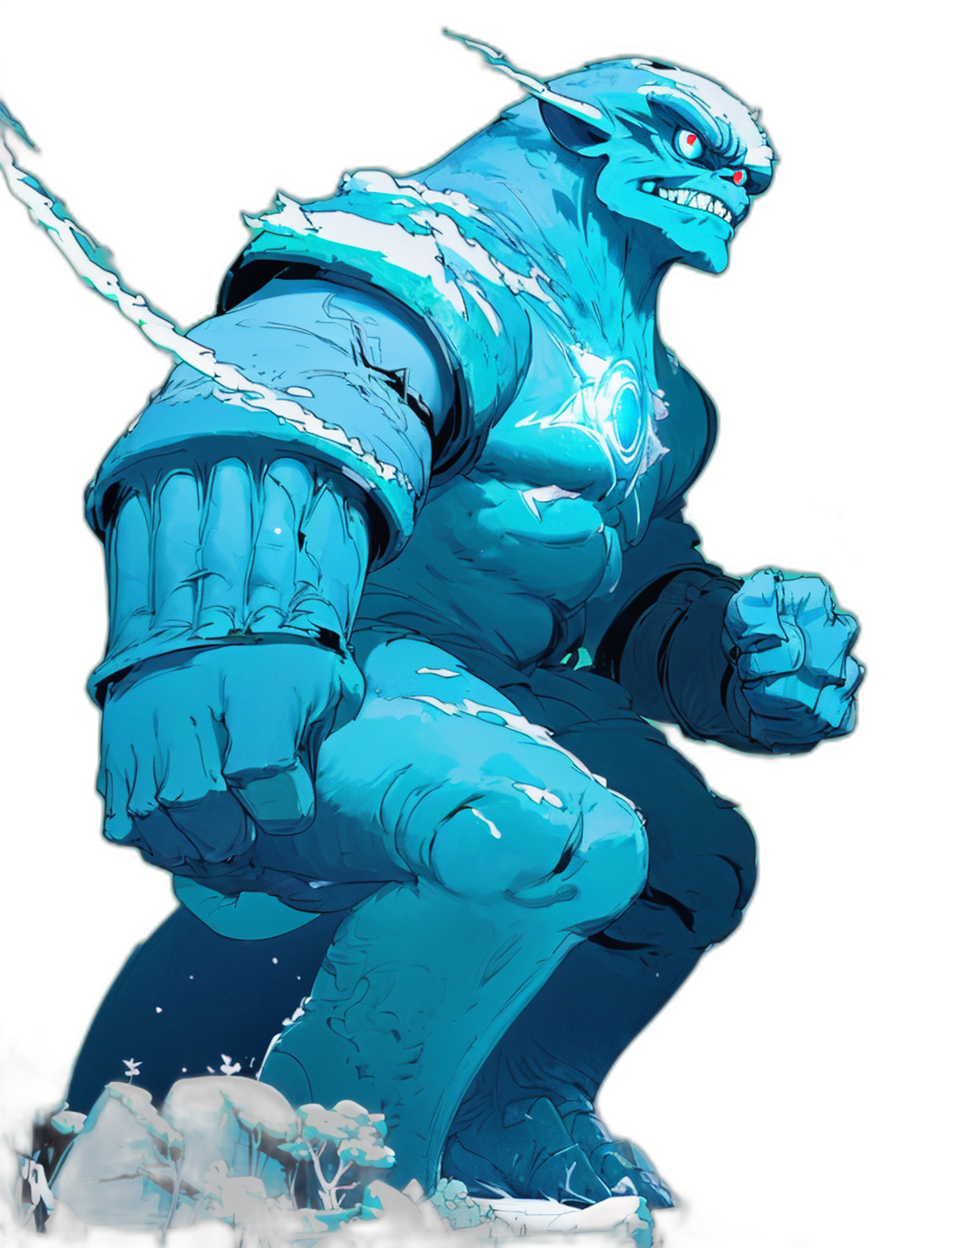
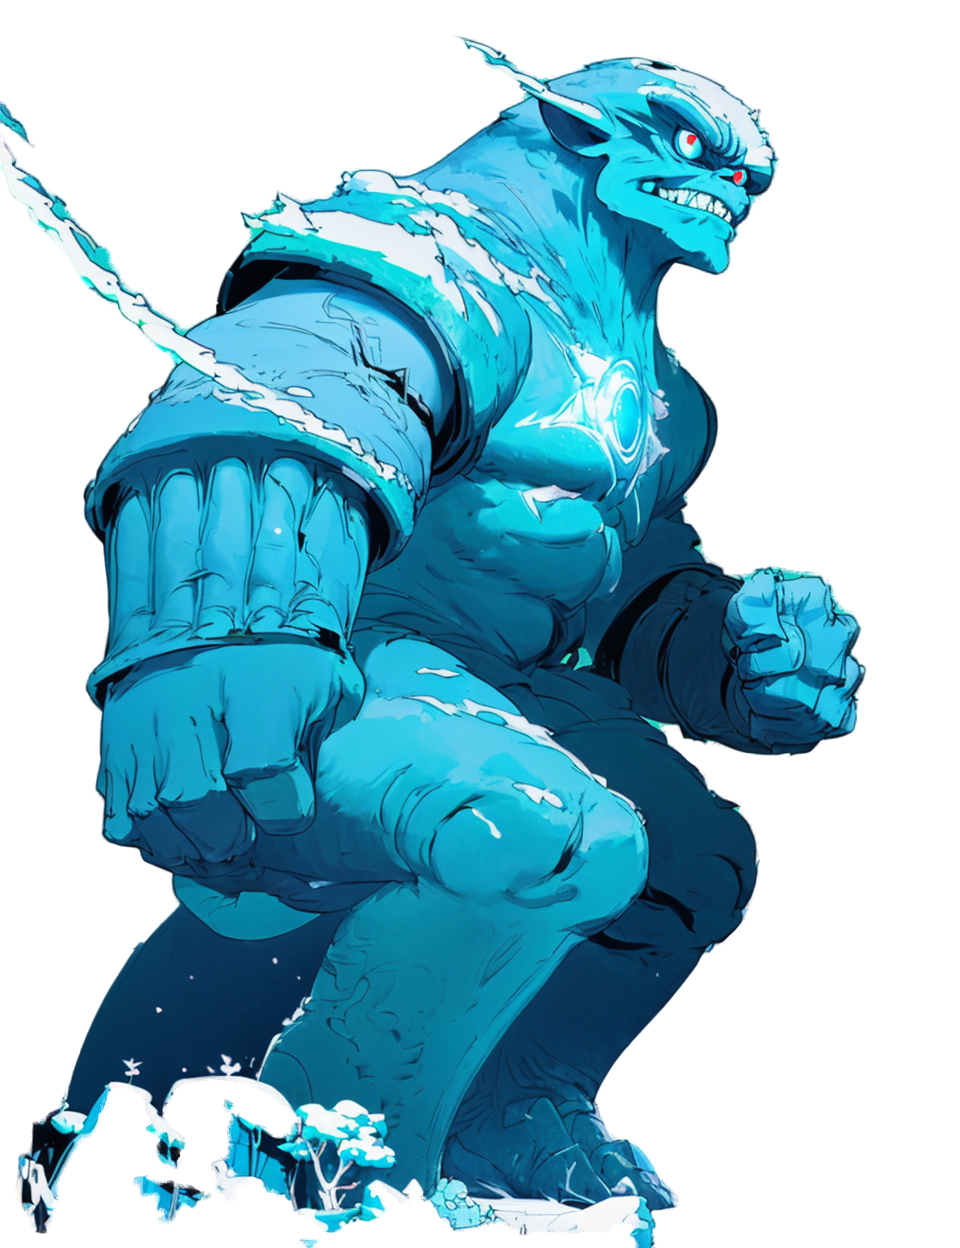
monsters-002: retry chroma-key (magenta/orange), revert to improved rembg matting
Tried 3 more chroma-key attempts per user request, each specifying a
background color absent from the frost golems own palette:
  - magenta, light mention -> ignored, background stayed icy blue/cyan
  - magenta, emphasized + front-loaded -> background changed but bled
    into the characters skin/highlights
  - orange (complementary to the icy palette) -> background came out
    as clean flat color, but the character composition itself
    collapsed into an unrelated, off-brief design

Chroma-key is not viable for this checkpoint/prompt combination given
the creatures cool color palette; reverting to rembg per user
direction to instead fix rembgs edge quality.

Diagnosed the original rembg complaint ("not cleanly extracted"):
plain rembg.remove() left large soft/uncertain alpha regions around
fine details (ice-splash droplets) that appear as a grey ghost smear
once composited onto a real background. Added tools/matte_transparent.py
using alpha_matting + post_process_mask together, which was the only
combination in a 5-way comparison that fixed the soft-ghosting AND
kept smooth antialiased edges (post_process_mask alone fixes ghosting
but produces jagged binary edges; alpha_matting alone keeps smooth
edges but does not fix the ghosting).

Reprocessed all monsters-002 transparent variants with the new tool
and updated the gallery page notes + failed-attempts section
accordingly.

diff --git a/web/preview/monsters-002/index.html b/web/preview/monsters-002/index.html
@@ -41,6 +41,8 @@ h2 { color: var(--gold); font-size: 16px; letter-spacing: 0.04em; text-transform
 .failed { border-color: #6a4030; opacity: 0.6; }
 .failed .card-img { filter: grayscale(0.4); }
 .section-muted { opacity: 0.9; }
+.badge-fixed { display: inline-block; background: #24422c; color: #8fe8a8; border: 1px solid #3a6a48;
+  border-radius: 4px; padding: 1px 8px; font-size: 11px; letter-spacing: 0.03em; margin-left: 6px; }
 
 .i18n span[lang="en"] { display: none; }
 .i18n span[lang="ja"] { display: inline; }
@@ -103,14 +105,14 @@ body.lang-en .i18n span[lang="ja"] { display: none; }
   <div class="card-title-ja">SDXLベース・高精細</div>
   <div class="card-title-en">SDXL base, high-detail</div>
   <div class="card-tech">sd_xl_base_1.0</div>
-  <div class="card-note"><span class="i18n"><span lang="ja">このGPU(8GB)ではSDXL単体ロード時にVRAM不足でハング(進捗停止)し、interruptで中断。今回のシンプル方針では見送り。将来別途調査の価値あり。</span><span lang="en">On this 8GB GPU, loading SDXL alone caused a VRAM-pressure hang (progress stalled indefinitely); interrupted manually. Dropped for now given the "simple, reliable" mandate — worth investigating separately later.</span></span></div>
+  <div class="card-note"><span class="i18n"><span lang="ja">このGPU(8GB)ではSDXL単体ロード時にVRAM不足でハング(進捗停止)し、interruptで中断。今回のシンプル方針では見送り。将来別途調査の価値あり。</span><span lang="en">On this 8GB GPU, loading SDXL alone caused a VRAM-pressure hang (progress stalled indefinitely); interrupted manually. Dropped for now given the simple, reliable mandate — worth investigating separately later.</span></span></div>
 </div>
 </div>
 
 <h2><span class="i18n"><span lang="ja">#2方向の追加バリエーション(透過背景)</span><span lang="en">#2 Direction — More Variations (transparent background)</span></span></h2>
 <div class="meta"><span class="i18n">
-<span lang="ja">背景はU2Net(rembg)による自動セグメンテーションで透過化(緑/シアン背景のカラーキー方式は、氷モンスター自体が寒色系でキー色と衝突し破綻したため不採用)。カードの市松模様は透過部分の目安です。</span>
-<span lang="en">Backgrounds removed via U2Net (rembg) automatic segmentation (a color-key/chroma-key approach was tried first but broke down since the icy creature's own cool palette collides with green/cyan key colors). The checkered pattern on each card marks the transparent area.</span>
+<span lang="ja">背景はU2Net(rembg)による自動セグメンテーションで透過化。カラーキー方式はマゼンタ/オレンジで背景色を変えて再テストしたが、「指定色が無視され元の背景に戻る」「指定色がキャラクター本体の肌に滲む」「構図自体が崩壊する」とテストごとに異なる形で破綻し、この氷モンスターの寒色パレットとは相性が悪いため不採用。rembg側も当初、氷の飛沫のような細かい部分の縁が半透明の「ゴースト」状に残り抜けが甘かったため、alpha matting + マスク後処理を追加し縁を再処理済み(下記カード参照)。カードの市松模様は透過部分の目安です。</span>
+<span lang="en">Backgrounds removed via U2Net (rembg) automatic segmentation. Chroma-key was re-tested with two more background colors (magenta, orange) but broke down in a different way each time — the color was ignored and the old background came back, the color bled into the character's own skin, or the composition collapsed entirely — a poor match for this creature's cool color palette. On the rembg side, the first pass also left soft, semi-transparent ghost edges around fine details like ice-splash droplets; edges have now been reprocessed with alpha matting + mask post-processing (see cards below). The checkered pattern marks the transparent area.</span>
 </span></div>
 <div class="gallery">
 
@@ -150,8 +152,8 @@ body.lang-en .i18n span[lang="ja"] { display: none; }
 
 <h2 class="section-muted"><span class="i18n"><span lang="ja">失敗した試行(参考)</span><span lang="en">Failed Attempts (for reference)</span></span></h2>
 <div class="meta"><span class="i18n">
-<span lang="ja">同バッチで2件、ブリーフ(全身・正面)を満たさず除外: 肩に氷の棘を足した版はフレームアウトしてほぼ写らず、氷の冠を足した版は上半身のみのポートレートになった。</span>
-<span lang="en">Two more attempts in the same batch didn't meet the brief (full body, front-facing) and were excluded: the shoulder-spikes variant framed almost entirely out of shot, and the ice-crown variant came out as a bust/portrait instead of full body.</span>
+<span lang="ja">同バッチで2件、ブリーフ(全身・正面)を満たさず除外: 肩に氷の棘を足した版はフレームアウトしてほぼ写らず、氷の冠を足した版は上半身のみのポートレートになった。<br/>また透過方式としてカラーキー(クロマキー)を3パターン試して除外: (1)背景色を軽く指定 → 無視されて元の氷背景のまま、(2)背景色を強調して前方配置 → 背景色は変わったがキャラクターの肌・ハイライトに色が滲んだ、(3)氷色の補色(オレンジ)を選択 → 背景は綺麗な単色になったがキャラクターの構図自体が別物に崩れた。</span>
+<span lang="en">Two more attempts in the same batch didn't meet the brief (full body, front-facing) and were excluded: the shoulder-spikes variant framed almost entirely out of shot, and the ice-crown variant came out as a bust/portrait instead of full body.<br/>Also tried and dropped: 3 chroma-key (color-key) background attempts — (1) a light mention of the target color, which was ignored and the original icy background came back; (2) an emphasized color placed early in the prompt, which did change the background but bled into the character's own skin/highlights; (3) an orange background (chosen as the complementary color to the creature's icy palette), which came out as a clean flat color but collapsed the character's composition into a different, off-brief design.</span>
 </span></div>
 
 <h2><span class="i18n"><span lang="ja">次のステップ</span><span lang="en">Next Steps</span></span></h2>

diff --git a/tools/matte_transparent.py b/tools/matte_transparent.py
@@ -1,0 +1,66 @@
+#!/usr/bin/env python3
+"""
+matte_transparent.py -- Background removal for flat/solid-backdrop SD illustrations.
+
+Uses rembg (U2Net) with alpha matting + mask post-processing enabled. Plain
+rembg.remove() leaves large soft/uncertain regions (e.g. wispy ice-drip
+splash effects) at partial alpha, which shows as a grey 'ghost' smear once
+composited onto a real background. alpha_matting cleans up edge quality
+(proper antialiasing instead of jagged pixels); post_process_mask removes
+the soft-uncertain interior/edge regions via morphological cleanup. Using
+BOTH together (this script's default) gave the cleanest result in testing --
+alpha_matting alone or post_process_mask alone each fixed only half the
+problem. See content/proposals/monsters-002/transparent_test/ for the
+comparison grid this was decided from.
+
+Usage:
+  python3 tools/matte_transparent.py --in path/in.png --out path/out.png
+  python3 tools/matte_transparent.py --in-dir raw/ --out-dir transparent/
+"""
+import argparse
+import glob
+import os
+from rembg import remove, new_session
+from PIL import Image
+
+_session = None
+
+def get_session():
+    global _session
+    if _session is None:
+        _session = new_session('u2net')
+    return _session
+
+def matte(path_in, path_out):
+    im = Image.open(path_in)
+    out = remove(
+        im,
+        session=get_session(),
+        alpha_matting=True,
+        alpha_matting_foreground_threshold=250,
+        alpha_matting_background_threshold=5,
+        alpha_matting_erode_size=5,
+        post_process_mask=True,
+    )
+    out.save(path_out)
+
+def main():
+    ap = argparse.ArgumentParser()
+    ap.add_argument('--in', dest='inp')
+    ap.add_argument('--out')
+    ap.add_argument('--in-dir')
+    ap.add_argument('--out-dir')
+    a = ap.parse_args()
+    if a.inp:
+        matte(a.inp, a.out)
+        print(f'OK {a.inp} -> {a.out}')
+    else:
+        os.makedirs(a.out_dir, exist_ok=True)
+        for f in sorted(glob.glob(os.path.join(a.in_dir, '*.png'))):
+            name = os.path.basename(f)
+            matte(f, os.path.join(a.out_dir, name))
+            print('OK', name, flush=True)
+        print('ALLDONE', flush=True)
+
+if __name__ == '__main__':
+    main()
